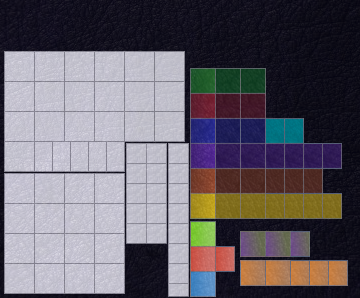
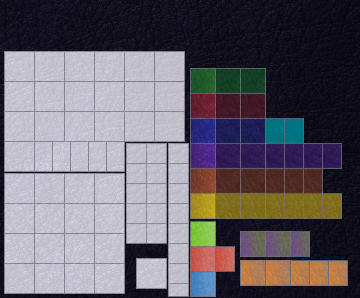
Changed QPA names to say mud walls, as it can't be used for red ice; added Biggoron's Sword to the item UI and reorganized accordingly

Changed region(s): [[0.3667, 0.8456, 0.4889, 0.9966]]

diff --git a/JavaScript/Data/itemData.js b/JavaScript/Data/itemData.js
@@ -121,7 +121,7 @@ let OcarinaButtons = {
 let Equipment = {
 	MASTER_SWORD: { name: "Master Sword", playerHas: true, hide: true },
 	KOKIRI_SWORD: { name: "Kokiri Sword" },
-	MAGIC: { name: "Magic" },
+	BIGGORONS_SWORD: { name: "Biggoron's Sword" },
 	DEKU_SHIELD: { name: "Deku Shield" },
 	STRENGTH: { 
 		name: "Strength", 
@@ -130,7 +130,7 @@ let Equipment = {
 	},
 	
 	GORON_TUNIC: { name: "Goron Tunic" },
-	IRON_BOOTS: { name: "Iron Boots" },
+	ZORA_TUNIC: { name: "Zora Tunic" },
 	HYLIAN_SHIELD: { name: "Hylian Shield" },
 	SCALE: {
 		name: "Scale",
@@ -138,7 +138,7 @@ let Equipment = {
 		useUpgradeAsDisplay: true
 	},
 	
-	ZORA_TUNIC: { name: "Zora Tunic" },
+	IRON_BOOTS: { name: "Iron Boots" },
 	HOVER_BOOTS: { name: "Hover Boots" },
 	MIRROR_SHIELD: { name: "Mirror Shield" },
 	WALLET: { 
@@ -148,9 +148,11 @@ let Equipment = {
 	},
 	
 	GERUDO_MEMBERSHIP_CARD: { name: "Gerudo Membership Card" },
-	STONE_OF_AGONY: { name: "Stone of Agony" },
+	MAGIC: { name: "Magic" },
 	TRIFORCE_SHARDS: { name: "Triforce Shards", playerHas: true, count: 0 },
 	SKULLTULA_TOKENS: { name: "Skulltula Tokens", playerHas: true, count: 0 },
+
+	STONE_OF_AGONY: { name: "Stone of Agony" },
 };
 
 /**
@@ -275,7 +277,7 @@ let ItemSets = {
  */
 let QPAItemSets = {
 	TORCH_QPA: { isQpaItemSet: true, useJumpslash: true, forTorch: true },
-	BLUE_FIRE_QPA: { isQpaItemSet: true, useJumpslash: true, forBlueFire: true },
+	MUD_WALLS_QPA: { isQpaItemSet: true, useJumpslash: true, forMudWalls: true },
 	BIGGORONS_SWORD_QPA: { isQpaItemSet: true, useJumpslash: true, forBiggoronsSword: true },
 	TRADE_ITEM_QPA: { isQpaItemSet: true, useCutsceneItem: true }
 };
@@ -1432,7 +1434,7 @@ let ItemData = {
 	 * @param itemSet - The settings:
 	 * == QPA Types ==
 	 * - useJumpslash: Whether QPA will be performed using an empty jumpslash, requiring a sword item
-	 *   - forBlueFire: Whether this QPA will be used as blue fire to break mud walls, etc
+	 *   - forMudWalls: Whether this QPA will be used to break mud walls
 	 *   - forBiggoronsSword: Whether this QPA will make use of Biggoron's Sword
 	 *   - forTorch: Whether this QPA will be used to light a torch, requiring a stick as child due to his height
 	 * - useCutsceneItem: Whether QPA will be performed using a cutscene item, also requiring a deku stick
@@ -1445,7 +1447,7 @@ let ItemData = {
 
 		if (itemSet.useJumpslash) {
 			// If we intend this to be used as blue fire, the rando setting needs to be on
-			if (itemSet.forBlueFire && !Settings.RandomizerSettings.iceArrowsActAsBlueFire) {
+			if (itemSet.forMudWalls && !Settings.RandomizerSettings.iceArrowsActAsBlueFire) {
 				return false;
 			}
 

diff --git a/JavaScript/itemTracker.js b/JavaScript/itemTracker.js
@@ -79,6 +79,10 @@ let ItemTracker = {
 					_this._setStyleForOcarinaButton(item, divItem);
 				}
 
+				if (key === "STONE_OF_AGONY") { // The Stone of Agony is positioned slightly differently
+					_this._setStyleForStoneOfAgony(divItem);
+				}
+
 				if (itemObjString === "Songs" && !ItemData.hasAllSongNotes(item)) { // Set CSS for songs that can't be played
 					addCssClass(divItem, "cannot-play-song");
 				}
@@ -163,6 +167,17 @@ let ItemTracker = {
 				buttonDiv.style.left = "2px";
 				return;
 		}
+	},
+
+	/**
+	 * The stone of agony is positions away from the other icons
+	 * This function sets them accordingly
+	 * @param itemDiv - The div for the stone of agony
+	 */
+	_setStyleForStoneOfAgony: function(itemDiv) {
+		itemDiv.style.position = "absolute";
+		itemDiv.style.top = "85px";
+		itemDiv.style.left = "132px";
 	},
 
 	onEmptyBottleClicked: function(item, divBottleCount, event) {
